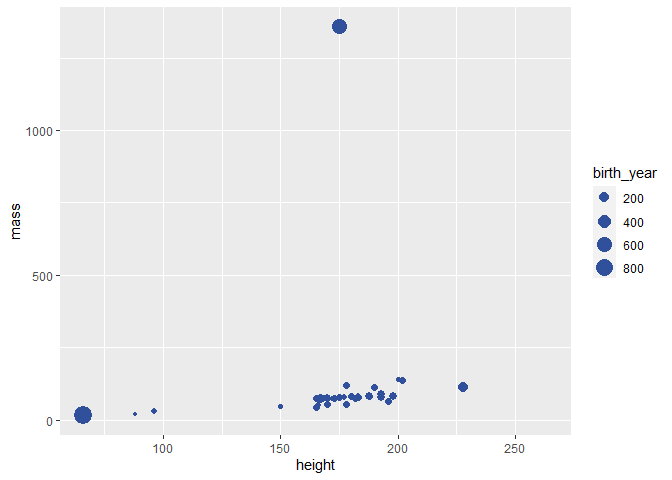
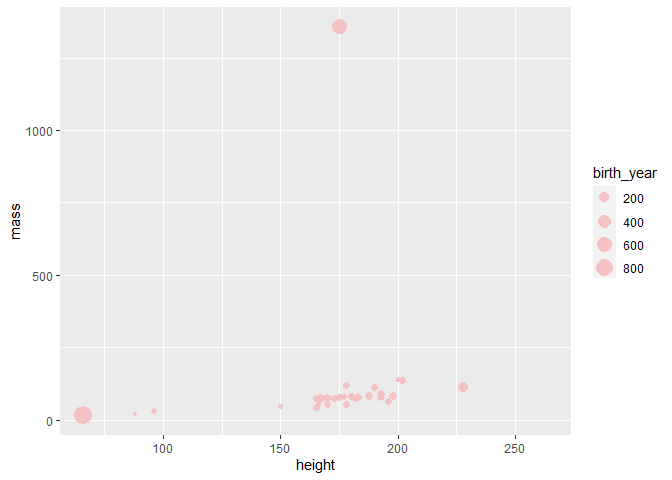
Color and labels added

diff --git a/starwars.md b/starwars.md
@@ -1,6 +1,6 @@
 Visualizing Starwars characters
 ================
-Add your name
+Sara Bond
 
 ### Glimpse at the starwars data frame.
 
@@ -10,27 +10,27 @@ glimpse(starwars)
 
     ## Rows: 87
     ## Columns: 14
-    ## $ name       <chr> "Luke Skywalker", "C-3PO", "R2-D2", "Darth Vader", "Leia Or~
-    ## $ height     <int> 172, 167, 96, 202, 150, 178, 165, 97, 183, 182, 188, 180, 2~
-    ## $ mass       <dbl> 77.0, 75.0, 32.0, 136.0, 49.0, 120.0, 75.0, 32.0, 84.0, 77.~
-    ## $ hair_color <chr> "blond", NA, NA, "none", "brown", "brown, grey", "brown", N~
-    ## $ skin_color <chr> "fair", "gold", "white, blue", "white", "light", "light", "~
-    ## $ eye_color  <chr> "blue", "yellow", "red", "yellow", "brown", "blue", "blue",~
-    ## $ birth_year <dbl> 19.0, 112.0, 33.0, 41.9, 19.0, 52.0, 47.0, NA, 24.0, 57.0, ~
-    ## $ sex        <chr> "male", "none", "none", "male", "female", "male", "female",~
-    ## $ gender     <chr> "masculine", "masculine", "masculine", "masculine", "femini~
-    ## $ homeworld  <chr> "Tatooine", "Tatooine", "Naboo", "Tatooine", "Alderaan", "T~
-    ## $ species    <chr> "Human", "Droid", "Droid", "Human", "Human", "Human", "Huma~
-    ## $ films      <list> <"The Empire Strikes Back", "Revenge of the Sith", "Return~
-    ## $ vehicles   <list> <"Snowspeeder", "Imperial Speeder Bike">, <>, <>, <>, "Imp~
-    ## $ starships  <list> <"X-wing", "Imperial shuttle">, <>, <>, "TIE Advanced x1",~
+    ## $ name       <chr> "Luke Skywalker", "C-3PO", "R2-D2", "Darth Vader", "Leia Or…
+    ## $ height     <int> 172, 167, 96, 202, 150, 178, 165, 97, 183, 182, 188, 180, 2…
+    ## $ mass       <dbl> 77.0, 75.0, 32.0, 136.0, 49.0, 120.0, 75.0, 32.0, 84.0, 77.…
+    ## $ hair_color <chr> "blond", NA, NA, "none", "brown", "brown, grey", "brown", N…
+    ## $ skin_color <chr> "fair", "gold", "white, blue", "white", "light", "light", "…
+    ## $ eye_color  <chr> "blue", "yellow", "red", "yellow", "brown", "blue", "blue",…
+    ## $ birth_year <dbl> 19.0, 112.0, 33.0, 41.9, 19.0, 52.0, 47.0, NA, 24.0, 57.0, …
+    ## $ sex        <chr> "male", "none", "none", "male", "female", "male", "female",…
+    ## $ gender     <chr> "masculine", "masculine", "masculine", "masculine", "femini…
+    ## $ homeworld  <chr> "Tatooine", "Tatooine", "Naboo", "Tatooine", "Alderaan", "T…
+    ## $ species    <chr> "Human", "Droid", "Droid", "Human", "Human", "Human", "Huma…
+    ## $ films      <list> <"The Empire Strikes Back", "Revenge of the Sith", "Return…
+    ## $ vehicles   <list> <"Snowspeeder", "Imperial Speeder Bike">, <>, <>, <>, "Imp…
+    ## $ starships  <list> <"X-wing", "Imperial shuttle">, <>, <>, "TIE Advanced x1",…
 
 ### Modify the following plot to change the color of all points to `"pink"`.
 
 ``` r
 ggplot(starwars, 
        aes(x = height, y = mass, color = gender, size = birth_year)) +
-  geom_point(color = "#30509C")
+  geom_point(color = "#f4c2c2")
 ```
 
     ## Warning: Removed 51 rows containing missing values (geom_point).
@@ -42,12 +42,12 @@ ggplot(starwars,
 ``` r
 ggplot(starwars, 
        aes(x = height, y = mass, color = gender, size = birth_year)) +
-  geom_point(color = "#30509C") +
+  geom_point(color = "#f4c2c2") +
   labs(
-    #title = "___",
-    #x = "___", 
-    #y = "___",
-    #___
+    title = "Height and Weight of Star Wars Characters by Birth Year",
+    x = "height(cm)", 
+    y = "mass(kg)",
+    size = "Birth Year"
     )
 ```
 
